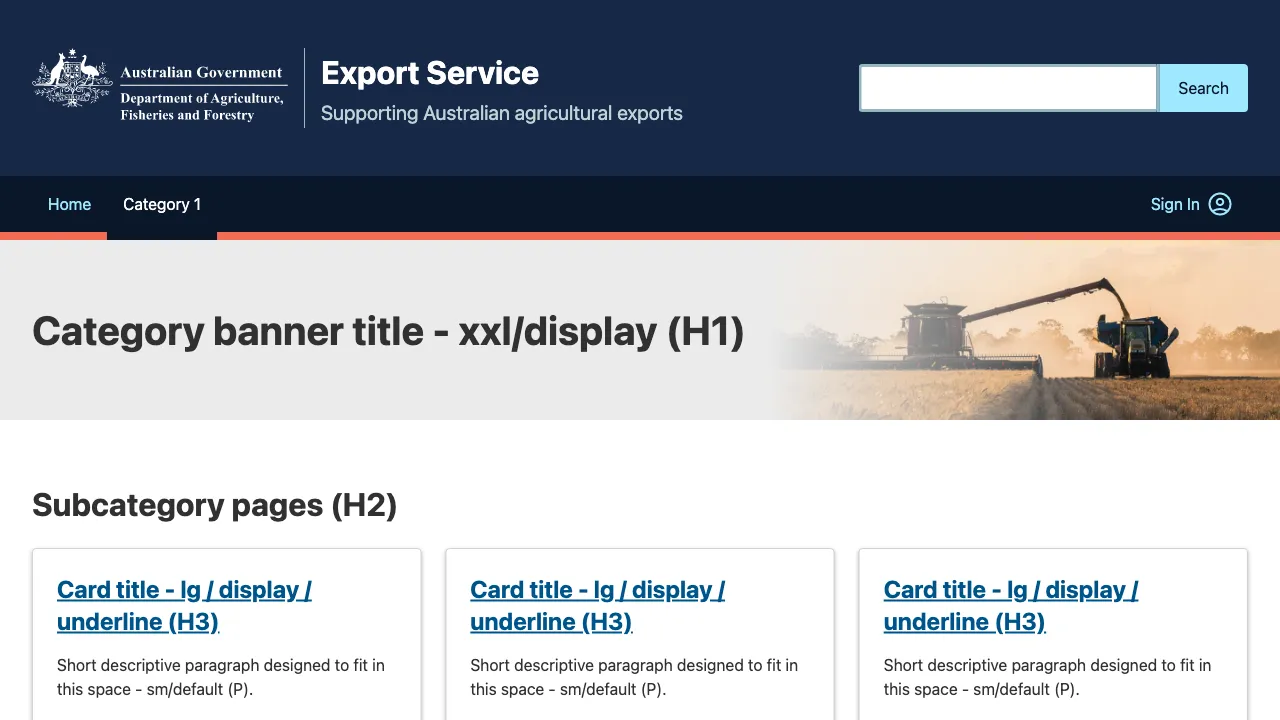
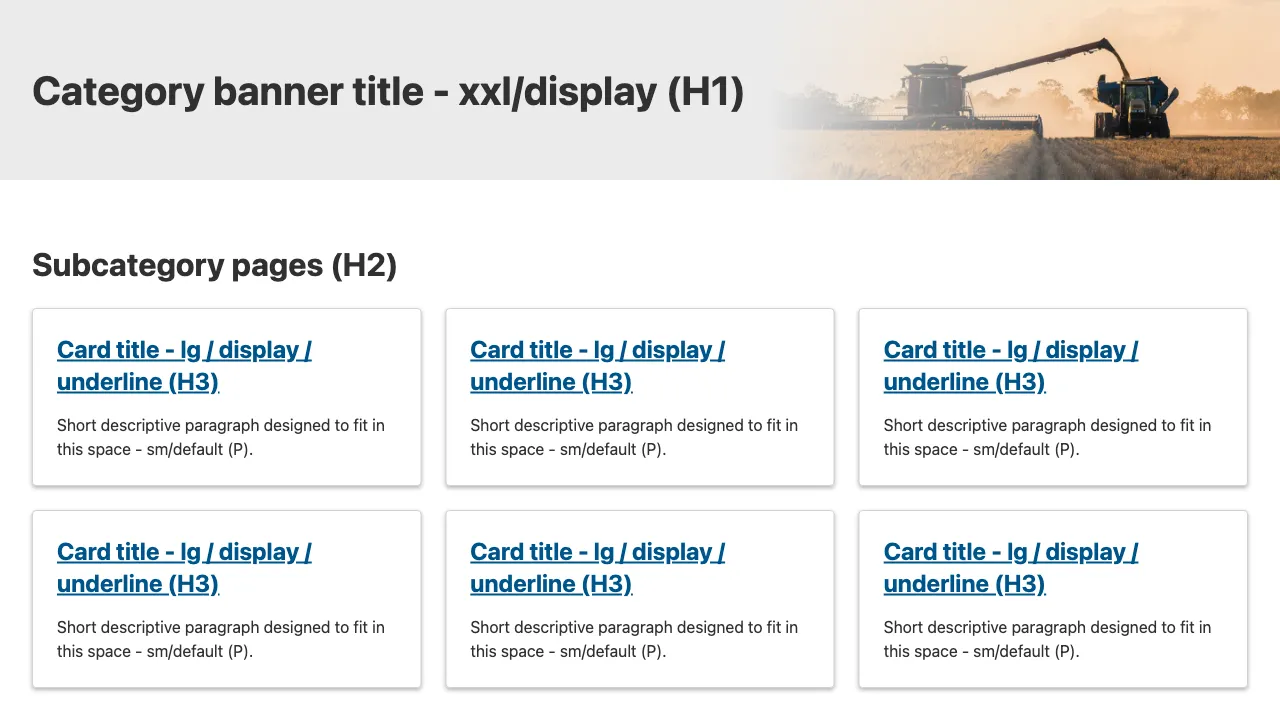
imagess

diff --git a/docs/scripts/generateTemplateImages.js b/docs/scripts/generateTemplateImages.js
@@ -84,10 +84,14 @@ function getTemplateList() {
 					deviceScaleFactor: 1,
 				});
 
-				// Scroll past the template banner
+				// Scroll into the main content area
+				// Note: We don't just use the `main` selector here as that can be different across templates
 				await page.waitForSelector('header');
 				await page.evaluate(() => {
-					document.querySelector('header').scrollIntoView();
+					const header = document.querySelector('header');
+					const headerParent = header.parentElement;
+					const contentArea = headerParent.nextElementSibling;
+					contentArea.scrollIntoView();
 				});
 
 				// Convert the screenshot into a webp image
